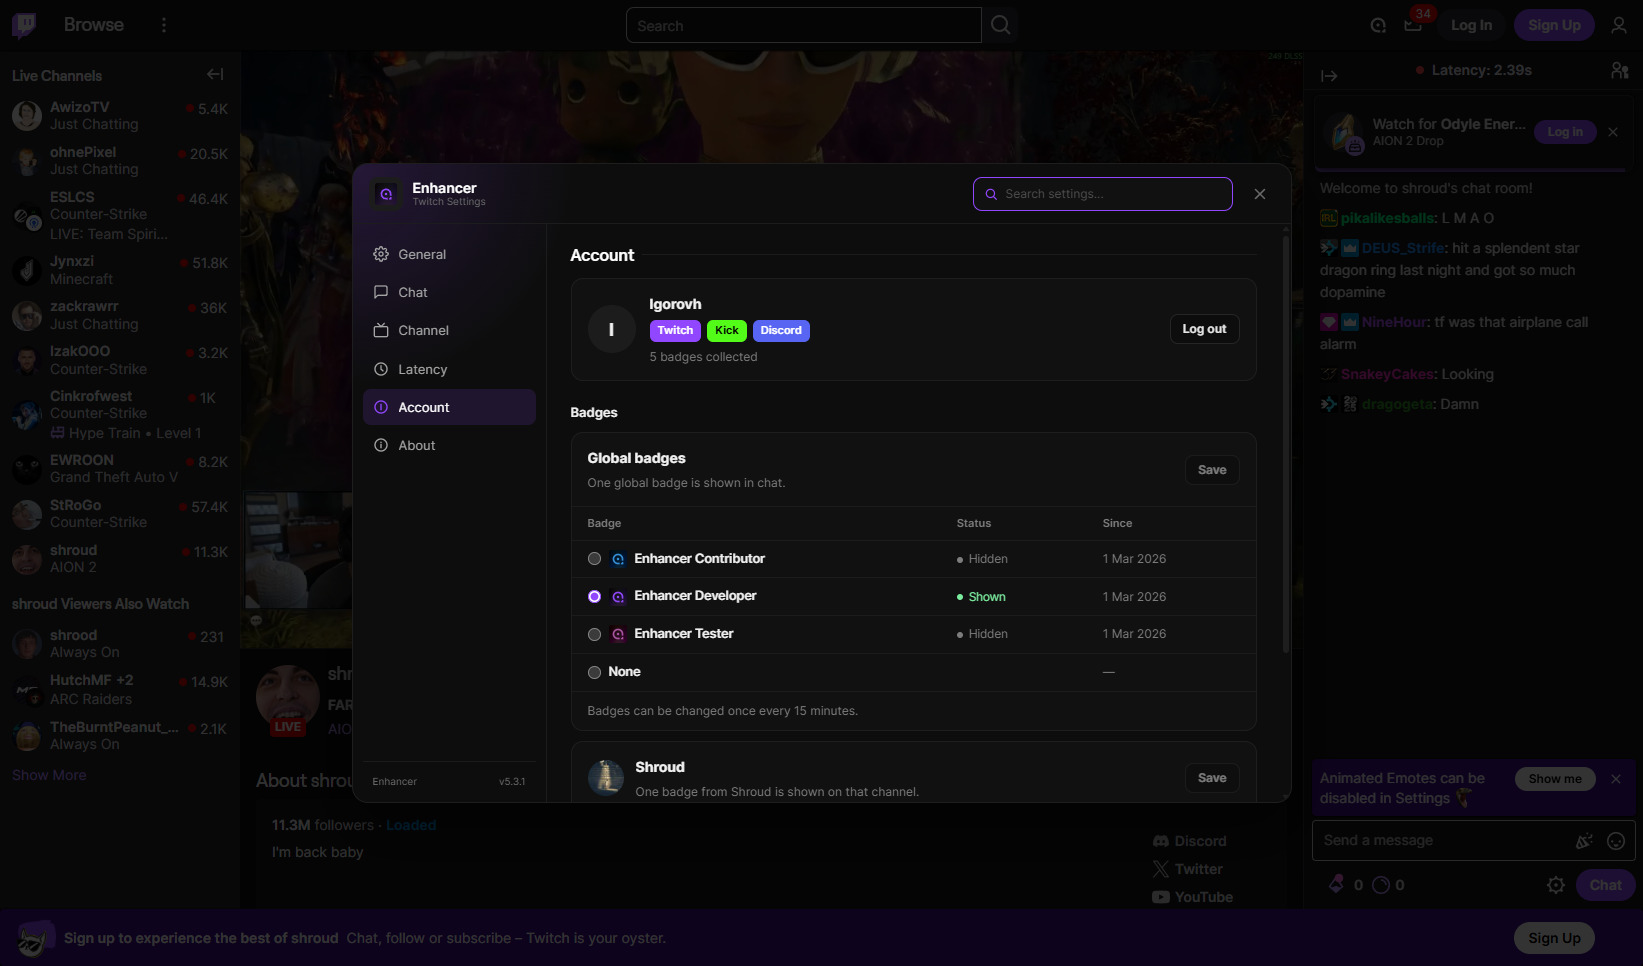
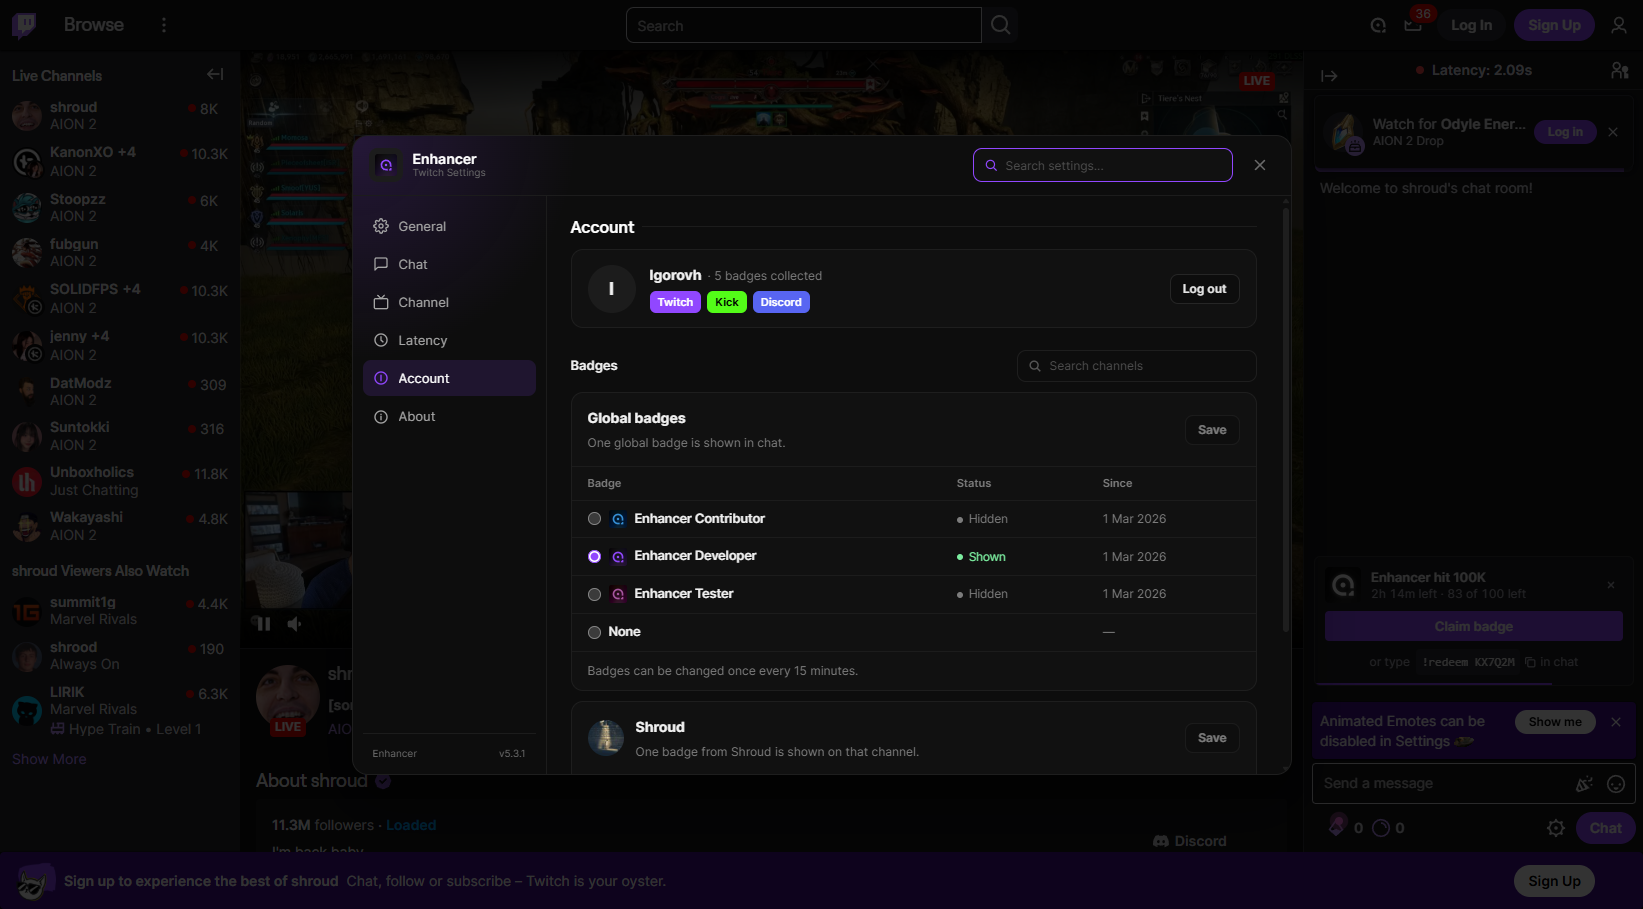
feat(marks): inline 'in chat' command row, centred notes and channel search
The claim popup reads 'or type <command> <copy> in chat' with tight, even gaps, status notes are centred, and the compact row leaves room for the bottom time bar.

Account settings show the badge count next to the name and add a channel search above the badge slots; searching hides the global slot and matches display names and logins.

diff --git a/src/shared/components/enhancer-account/enhancer-account.component.tsx b/src/shared/components/enhancer-account/enhancer-account.component.tsx
@@ -1,4 +1,9 @@
-import { buildSlotRequest, cooldownMinutesLeft, groupBadgeSlots } from "$shared/enhancer-account/badge-slots.ts";
+import {
+	buildSlotRequest,
+	cooldownMinutesLeft,
+	filterSlotGroups,
+	groupBadgeSlots,
+} from "$shared/enhancer-account/badge-slots.ts";
 import { pickBadgeImage } from "$shared/marks/mark-countdown.ts";
 import type { EnhancerViewerBadges, EnhancerViewerSummary } from "$types/apis/enhancer-account.apis.ts";
 import type {
@@ -103,7 +108,60 @@ const Heading = styled.div`
 	font-size: 13px;
 	font-weight: 600;
 	color: var(--settings-text-strong);
-	margin: 12px 0 0;
+`;
+
+const HeadingRow = styled.div`
+	display: flex;
+	align-items: center;
+	justify-content: space-between;
+	gap: 12px;
+	margin-top: 12px;
+`;
+
+const TitleCount = styled.span`
+	margin-left: 6px;
+	font-size: 12px;
+	font-weight: 400;
+	color: var(--settings-text-muted);
+`;
+
+const Search = styled.label`
+	display: flex;
+	align-items: center;
+	gap: 8px;
+	width: 240px;
+	height: 32px;
+	padding: 0 10px;
+	border-radius: 9px;
+	border: 1px solid var(--settings-border);
+	background: var(--settings-control-background);
+	color: var(--settings-text-faint);
+
+	&:focus-within {
+		border-color: #9147ff;
+		color: #9147ff;
+	}
+
+	svg {
+		width: 14px;
+		height: 14px;
+		flex-shrink: 0;
+	}
+
+	input {
+		flex: 1;
+		min-width: 0;
+		background: none;
+		border: none;
+		outline: none;
+		color: var(--settings-text-primary);
+		font: inherit;
+		font-size: 12px;
+	}
+
+	input::placeholder {
+		color: var(--settings-input-placeholder);
+	}
 `;
 
 const Button = styled.button<{ $primary?: boolean }>`
@@ -508,6 +566,7 @@ export function EnhancerAccountComponent({ workerService, platform, logoUrl }: E
 	const [badges, setBadges] = useState<EnhancerViewerBadges | null>(null);
 	const [busy, setBusy] = useState(false);
 	const [error, setError] = useState<string | null>(null);
+	const [query, setQuery] = useState("");
 
 	useEffect(() => {
 		let active = true;
@@ -595,6 +654,7 @@ export function EnhancerAccountComponent({ workerService, platform, logoUrl }: E
 			}
 		: null;
 	const groups = platformBadges ? groupBadgeSlots(platformBadges) : [];
+	const visibleGroups = filterSlotGroups(groups, query);
 	const badgeCount = badges ? badges.global.length + badges.channels.length : null;
 
 	return (
@@ -606,7 +666,14 @@ export function EnhancerAccountComponent({ workerService, platform, logoUrl }: E
 					<AvatarFallback $size={48}>{displayName.charAt(0).toUpperCase()}</AvatarFallback>
 				)}
 				<RowMain>
-					<RowTitle>{displayName}</RowTitle>
+					<RowTitle>
+						{displayName}
+						{badgeCount !== null && (
+							<TitleCount>
+								· {badgeCount} {badgeCount === 1 ? "badge" : "badges"} collected
+							</TitleCount>
+						)}
+					</RowTitle>
 					{profile && profile.identities.length > 0 && (
 						<Chips>
 							{profile.identities.map((identity) => {
@@ -626,22 +693,38 @@ export function EnhancerAccountComponent({ workerService, platform, logoUrl }: E
 							})}
 						</Chips>
 					)}
-					<Muted $error={error !== null}>
-						{error ??
-							(badgeCount === null ? "Loading…" : `${badgeCount} ${badgeCount === 1 ? "badge" : "badges"} collected`)}
-					</Muted>
+					{error && <Muted $error>{error}</Muted>}
 				</RowMain>
 				<Button type="button" onClick={logout} disabled={busy}>
 					{busy ? "…" : "Log out"}
 				</Button>
 			</Row>
-			<Heading>Badges</Heading>
+			<HeadingRow>
+				<Heading>Badges</Heading>
+				{groups.length > 0 && (
+					<Search>
+						<svg viewBox="0 0 16 16" fill="none" stroke="currentColor" stroke-width="1.6" aria-hidden="true">
+							<circle cx="7" cy="7" r="4.5" />
+							<path d="M10.5 10.5L14 14" />
+						</svg>
+						<input
+							type="search"
+							placeholder="Search channels"
+							aria-label="Search channels"
+							value={query}
+							onInput={(event) => setQuery(event.currentTarget.value)}
+						/>
+					</Search>
+				)}
+			</HeadingRow>
 			{badges === null ? (
 				<Muted>Loading badges…</Muted>
 			) : groups.length === 0 ? (
 				<Muted>No badges on this platform yet. Claim one during a live Mark.</Muted>
+			) : visibleGroups.length === 0 ? (
+				<Muted>No channels match "{query.trim()}".</Muted>
 			) : (
-				groups.map((group) => <BadgeSlotEditor key={group.key} group={group} onSave={saveSlot} />)
+				visibleGroups.map((group) => <BadgeSlotEditor key={group.key} group={group} onSave={saveSlot} />)
 			)}
 		</Container>
 	);

diff --git a/src/test/badge-slots.test.ts b/src/test/badge-slots.test.ts
@@ -1,5 +1,10 @@
 import { expect, test } from "bun:test";
-import { buildSlotRequest, cooldownMinutesLeft, groupBadgeSlots } from "$shared/enhancer-account/badge-slots.ts";
+import {
+	buildSlotRequest,
+	cooldownMinutesLeft,
+	filterSlotGroups,
+	groupBadgeSlots,
+} from "$shared/enhancer-account/badge-slots.ts";
 import { isViewerBadges, isViewerSummary } from "$shared/worker/enhancer-account/enhancer-account.guards.ts";
 import type { EnhancerViewerBadge } from "$types/apis/enhancer-account.apis.ts";
 
@@ -86,4 +91,30 @@ test("validates viewer summary and badge list payloads", () => {
 	expect(isViewerSummary({ user: { id: 1 }, identities: [] })).toBe(false);
 	expect(isViewerBadges({ global: [badge({})], channels: [] })).toBe(true);
 	expect(isViewerBadges({ global: [{ assignmentId: "x" }], channels: [] })).toBe(false);
+});
+
+test("channel search matches display names and logins and hides the global slot", () => {
+	const groups = groupBadgeSlots({
+		global: [badge({ assignmentId: "g1" })],
+		channels: [
+			badge({
+				assignmentId: "c1",
+				scope: "CHANNEL",
+				channelId: "ch-1",
+				channelLogin: "summit1g",
+				channelDisplayName: "Summit1G",
+			}),
+			badge({
+				assignmentId: "c2",
+				scope: "CHANNEL",
+				channelId: "ch-2",
+				channelLogin: "pokimane",
+				channelDisplayName: "Pokimane",
+			}),
+		],
+	});
+	expect(filterSlotGroups(groups, "").length).toBe(3);
+	expect(filterSlotGroups(groups, "  SUM ").map((group) => group.channelLogin)).toEqual(["summit1g"]);
+	expect(filterSlotGroups(groups, "poki").map((group) => group.channelLogin)).toEqual(["pokimane"]);
+	expect(filterSlotGroups(groups, "nope")).toEqual([]);
 });

diff --git a/src/shared/components/mark-card/mark-card.component.tsx b/src/shared/components/mark-card/mark-card.component.tsx
@@ -75,6 +75,10 @@ const ChatAlternative = styled.div`
 	gap: 6px;
 	font-size: 12px;
 	color: var(--m-muted);
+
+	& > button:last-of-type {
+		margin: 0 -7px;
+	}
 `;
 
 const CommandChip = styled.button`
@@ -130,6 +134,7 @@ function CopyIcon({ copied }: { copied: boolean }) {
 
 const Note = styled.div<{ $error?: boolean }>`
 	font-size: 12px;
+	text-align: center;
 	color: ${({ $error }) => ($error ? "#ff8280" : "var(--m-muted)")};
 `;
 
@@ -307,6 +312,7 @@ export function MarkPopupContent({ controller }: MarkCardComponentProps) {
 				>
 					<CopyIcon copied={controller.copied.value} />
 				</IconButton>
+				in chat
 			</ChatAlternative>
 			{controller.claimError.value && <Note $error>{controller.claimError.value}</Note>}
 			{loggedIn && controller.viewerEligible.value === false && (

diff --git a/src/shared/enhancer-account/badge-slots.ts b/src/shared/enhancer-account/badge-slots.ts
@@ -57,3 +57,13 @@ export function cooldownMinutesLeft(cooldownUntil: string | null, now = Date.now
 	if (Number.isNaN(remaining) || remaining <= 0) return 0;
 	return Math.ceil(remaining / 60_000);
 }
+
+export function filterSlotGroups(groups: BadgeSlotGroup[], query: string): BadgeSlotGroup[] {
+	const needle = query.trim().toLowerCase();
+	if (!needle) return groups;
+	return groups.filter(
+		(group) =>
+			group.scope === "CHANNEL" &&
+			[group.channelDisplayName, group.channelLogin].some((name) => name?.toLowerCase().includes(needle)),
+	);
+}

diff --git a/src/shared/components/chat-popup/chat-popup.component.tsx b/src/shared/components/chat-popup/chat-popup.component.tsx
@@ -136,7 +136,7 @@ const CardBody = styled.div<{ $compact: boolean }>`
 	display: flex;
 	flex-direction: column;
 	gap: 8px;
-	padding: ${({ $compact }) => ($compact ? "5px 6px 5px 8px" : "10px")};
+	padding: ${({ $compact }) => ($compact ? "5px 6px 7px 8px" : "10px")};
 `;
 
 const CardRow = styled.div`
